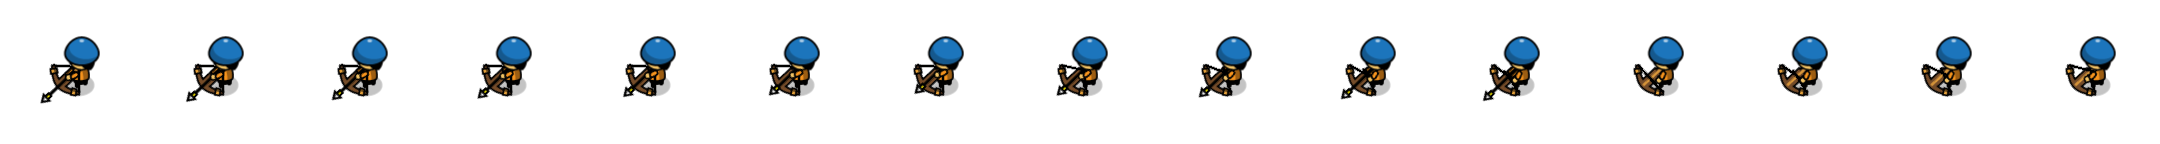
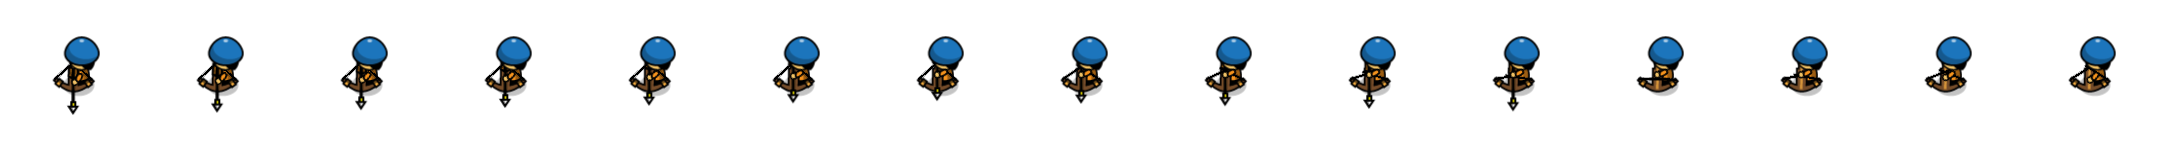
feat: upd archerTower change view logic

diff --git a/packages/client/src/game/classes/gameEntities/Buildings/archerTower/index.ts b/packages/client/src/game/classes/gameEntities/Buildings/archerTower/index.ts
@@ -8,7 +8,7 @@ import { IContext } from "@/game/interfaces";
 class ArcherTower extends Building {
   towerAngle: number | undefined;
 
-  constructor({ position, canvas, c }: IContext) {
+  constructor({ position, canvas, ctx }: IContext) {
     const towerParams = {
       width: 144,
       height: 144,
@@ -21,13 +21,7 @@ class ArcherTower extends Building {
     const towerExtraParams = {
       width: 131,
       height: 153,
-      towerImg: {
-        1: towerImg,
-        2: towerImg,
-        3: towerImg,
-        4: towerImg,
-        5: towerImg,
-      },
+      towerImg: towerImg,
       offset: {
         x: -33,
         y: -68,
@@ -49,8 +43,8 @@ class ArcherTower extends Building {
     super({
       position,
       canvas,
-      c: c,
-      imageSrc: archerImgs,
+      ctx: ctx,
+      imageSrc: archerImgs[0],
       frames,
       offset,
       towerParams,
@@ -66,7 +60,7 @@ class ArcherTower extends Building {
           y: this.center.y - 100,
         },
         enemy: this.target!,
-        c: this.c,
+        ctx: this.ctx,
         canvas: this.canvas,
       }),
     );
@@ -75,44 +69,59 @@ class ArcherTower extends Building {
   }
 
   getShootAngle(): void {
+    // calculate the angle between the tower and the target
     const angle = Math.atan2(
       this.target!.center.y - this.position.y,
       this.target!.center.x - this.position.x,
     );
 
-    let towerAngle = (angle * 360) / Math.PI;
-
+    // convert the angle from radians to degrees
+    let towerAngle = (angle * 180) / Math.PI;
     if (towerAngle < 0) {
-      towerAngle = -towerAngle;
+      towerAngle += 360;
     }
 
     this.updateTowerView(towerAngle);
   }
 
   updateTowerView(towerAngle: number): void {
-    console.log(towerAngle);
+    const numImages = archerImgs.length;
+    // get the angle range for each image
+    const imageRange = 360 / numImages;
 
-    let newSrc = "";
+    // сalculate the index of the image corresponding to the angle
+    let imageIndex = Math.round(towerAngle / imageRange);
 
-    if (337.5 < towerAngle || towerAngle <= 22.5) {
-      newSrc = archerImgs.img0;
-    } else if (22.5 < towerAngle && towerAngle <= 67.5) {
-      newSrc = archerImgs.img45;
-    } else if (67.5 < towerAngle && towerAngle <= 112.5) {
-      newSrc = archerImgs.img90;
-    } else if (112.5 < towerAngle && towerAngle <= 157.5) {
-      newSrc = archerImgs.img135;
-    } else if (157.5 < towerAngle && towerAngle <= 202.5) {
-      newSrc = archerImgs.img180;
-    } else if (202.5 < towerAngle && towerAngle <= 247.5) {
-      newSrc = archerImgs.img225;
-    } else if (247.5 < towerAngle && towerAngle <= 292.5) {
-      newSrc = archerImgs.img270;
-    } else if (292.5 < towerAngle && towerAngle <= 337.5) {
-      newSrc = archerImgs.img315;
+    // handle the case where the angle is close to 360 degrees
+    if (imageIndex === numImages) {
+      imageIndex = 0;
     }
 
-    this.image.src = newSrc;
+    // update the image source using the calculated index
+    this.image.src = archerImgs[imageIndex];
+
+    // alt version, mb more accurate?
+    // let newSrc = "";
+
+    // if (337.5 < towerAngle || towerAngle <= 22.5) {
+    //   newSrc = archerImgs[0];
+    // } else if (22.5 < towerAngle && towerAngle <= 67.5) {
+    //   newSrc = archerImgs[1];
+    // } else if (67.5 < towerAngle && towerAngle <= 112.5) {
+    //   newSrc = archerImgs[2];
+    // } else if (112.5 < towerAngle && towerAngle <= 157.5) {
+    //   newSrc = archerImgs[3];
+    // } else if (157.5 < towerAngle && towerAngle <= 202.5) {
+    //   newSrc = archerImgs[4];
+    // } else if (202.5 < towerAngle && towerAngle <= 247.5) {
+    //   newSrc = archerImgs[5];
+    // } else if (247.5 < towerAngle && towerAngle <= 292.5) {
+    //   newSrc = archerImgs[6];
+    // } else if (292.5 < towerAngle && towerAngle <= 337.5) {
+    //   newSrc = archerImgs[7];
+    // }
+
+    // this.image.src = newSrc;
   }
 }
 

diff --git a/packages/client/src/assets/img/towers/archerTower/archer/index.ts b/packages/client/src/assets/img/towers/archerTower/archer/index.ts
@@ -7,4 +7,4 @@ import img225 from "./225.png";
 import img270 from "./270.png";
 import img315 from "./315.png";
 
-export default { img0, img45, img90, img135, img180, img225, img270, img315 };
+export default [img0, img45, img90, img135, img180, img225, img270, img315];
